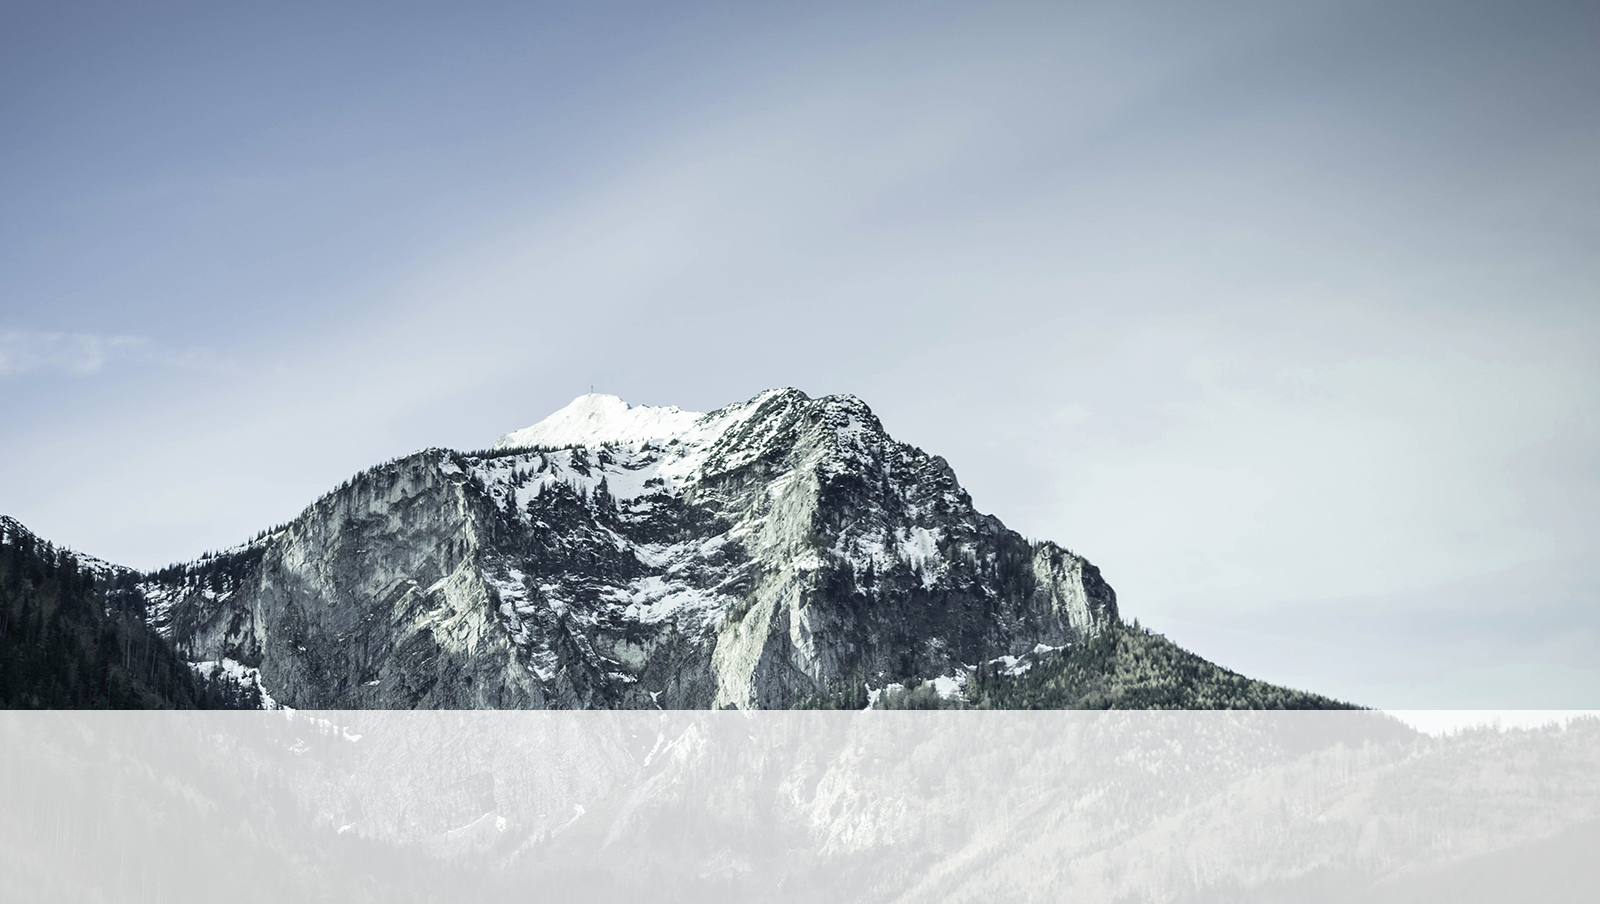
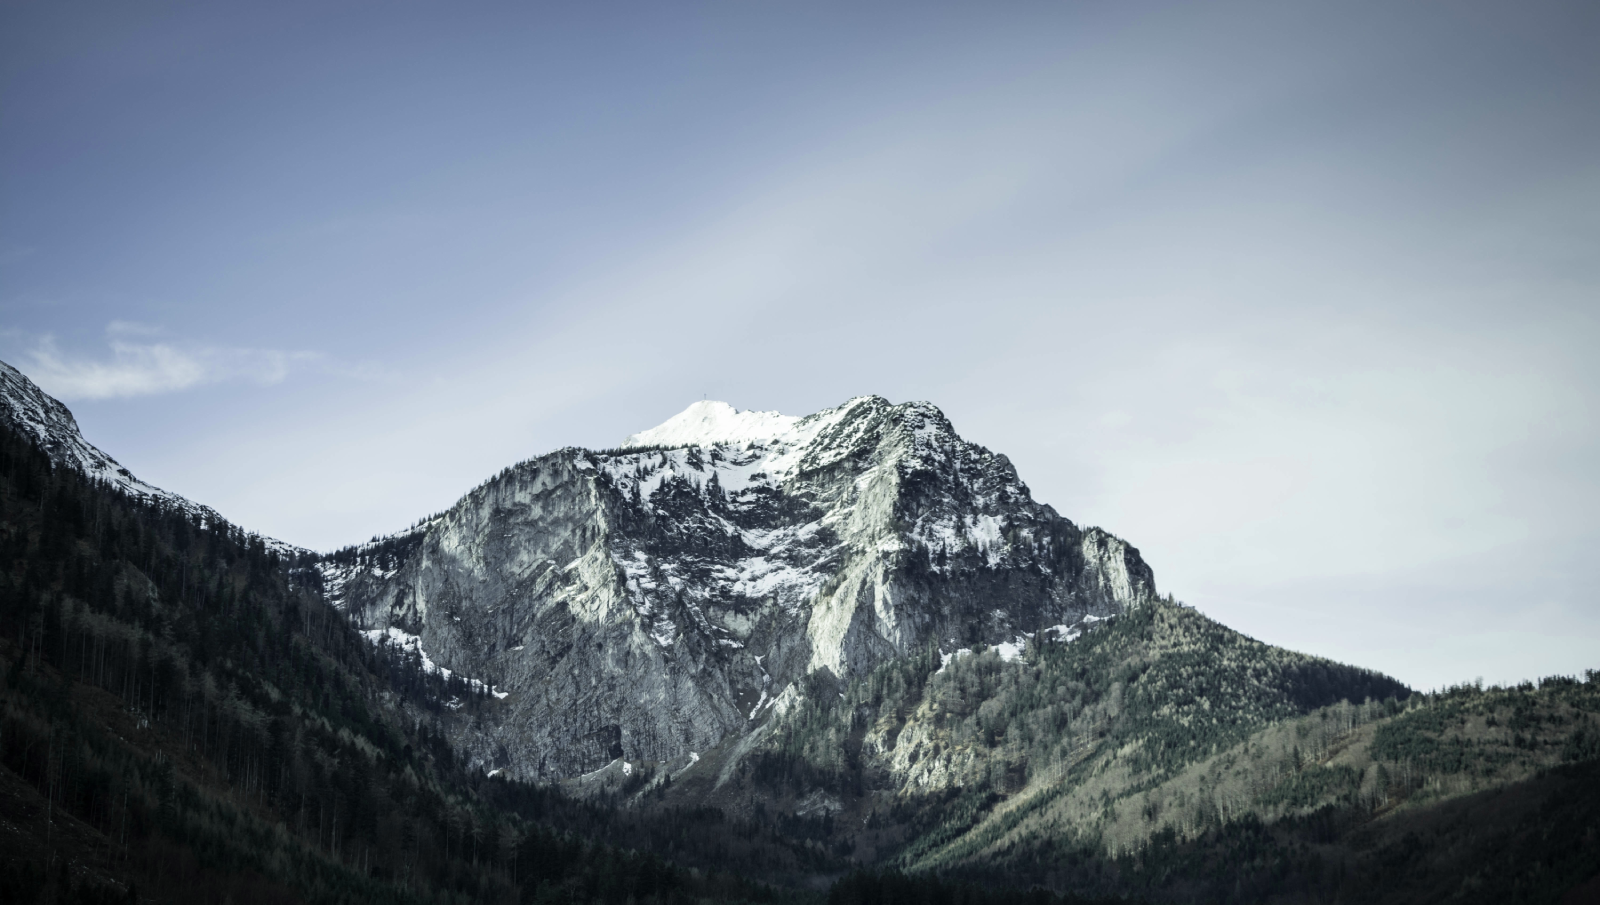
Changed position of h2 in history section; changed background image in history section

diff --git a/index.html b/index.html
@@ -6,6 +6,12 @@
     <link rel="preconnect" href="https://fonts.gstatic.com" />
     <link rel="preconnect" href="https://fonts.gstatic.com" />
     <link
+      rel="stylesheet"
+      href="https://stackpath.bootstrapcdn.com/bootstrap/4.3.1/css/bootstrap.min.css"
+      integrity="sha384-ggOyR0iXCbMQv3Xipma34MD+dH/1fQ784/j6cY/iJTQUOhcWr7x9JvoRxT2MZw1T"
+      crossorigin="anonymous"
+    />
+    <link
       href="https://fonts.googleapis.com/css2?family=Lato:ital,wght@0,400;1,700&family=Oswald:wght@700&display=swap"
       rel="stylesheet"
     />
@@ -13,65 +19,84 @@
     <title>Los Angeles Mountains</title>
   </head>
   <body>
-    <header>
-      <nav>
-        <img id="logo1" src="images/img2.png" alt="Logo" />
-        <ul class="nav-menu first">
-          <li id="history"><a href="#01">01. HISTORY</a></li>
-          <li id="team"><a href="#02">02. TEAM</a></li>
-        </ul>
-      </nav>
-    </header>
+    <div class="container-fluid">
+      <header>
+        <nav>
+          <img id="logo1" src="images/img2.png" alt="Logo" />
+          <ul class="nav-menu first">
+            <li id="history"><a href="#01">01. HISTORY</a></li>
+            <li id="team"><a href="#02">02. TEAM</a></li>
+          </ul>
+        </nav>
+      </header>
 
-    <div class="nav2">
-      <nav>
-        <img id="logo2" src="images/img8.png" alt="Logo with Name" />
-        <ul class="nav-menu second">
-          <li id="history"><a href="#01">01. HISTORY</a></li>
-          <li id="team"><a href="#02">02. TEAM</a></li>
-        </ul>
-      </nav>
-    </div>
-
-    <div class="history" id="01">
-      <h1>01.</h1>
-      <h2>HISTORY</h2>
-      <p>
-        Lorem ipsum dolor sit, amet consectetur adipisicing elit. Tempora natus
-        expedita atque hic facilis odio aperiam autem, aut voluptatem fugit
-        officiis obcaecati, libero delectus ipsum. Dolor consequuntur animi unde
-        placeat.
-      </p>
-    </div>
-
-    <div class="climb" id="02">
-      <h1>02.</h1>
-      <h2>CLIMB</h2>
-      <p>
-        Lorem ipsum, dolor sit amet consectetur adipisicing elit. Velit itaque
-        voluptate dolores id aliquam et est in eum quas ratione consequatur
-        eligendi accusamus omnis natus, nihil delectus vitae exercitationem.
-        Doloribus.
-      </p>
-    </div>
-
-    <div class="mountain"></div>
-
-    <div class="schedule">
-      <div class="container">
-        <h2>SCHEDULE</h2>
-        <ul>
-          <li></li>
-          <li></li>
-          <li></li>
-          <li></li>
-        </ul>
+      <div class="nav2">
+        <nav>
+          <img id="logo2" src="images/img8.png" alt="Logo with Name" />
+          <ul class="nav-menu second">
+            <li id="history"><a href="#01">01. HISTORY</a></li>
+            <li id="team"><a href="#02">02. TEAM</a></li>
+          </ul>
+        </nav>
       </div>
+
+      <div class="history" id="01">
+        <h1>01.</h1>
+        <h2>HISTORY</h2>
+        <p>
+          Lorem ipsum dolor sit, amet consectetur adipisicing elit. Tempora
+          natus expedita atque hic facilis odio aperiam autem, aut voluptatem
+          fugit officiis obcaecati, libero delectus ipsum. Dolor consequuntur
+          animi unde placeat.
+        </p>
+      </div>
+      <div class="carousel"></div>
+
+      <div class="climb" id="02">
+        <h1>02.</h1>
+        <h2>CLIMB</h2>
+        <p>
+          Lorem ipsum, dolor sit amet consectetur adipisicing elit. Velit itaque
+          voluptate dolores id aliquam et est in eum quas ratione consequatur
+          eligendi accusamus omnis natus, nihil delectus vitae exercitationem.
+          Doloribus.
+        </p>
+      </div>
+
+      <div class="mountain"></div>
+
+      <div class="schedule">
+        <div class="calendar">
+          <h2>SCHEDULE</h2>
+          <ul>
+            <li></li>
+            <li></li>
+            <li></li>
+            <li></li>
+          </ul>
+        </div>
+      </div>
+
+      <footer class="footer">
+        <img id="logo2" src="images/img9.png" alt="Logo with Name" />
+        <p>COPYRIGHT 2016. ALL RIGHTS RESERVED.</p>
+      </footer>
     </div>
 
-    <footer class="footer">
-      <img id="logo2" src="images/img8.png" alt="Logo with Name" />
-      <p>COPYRIGHT 2016. ALL RIGHTS RESERVED.</p>
-    </footer>
+    <script
+      src="https://code.jquery.com/jquery-3.3.1.slim.min.js"
+      integrity="sha384-q8i/X+965DzO0rT7abK41JStQIAqVgRVzpbzo5smXKp4YfRvH+8abtTE1Pi6jizo"
+      crossorigin="anonymous"
+    ></script>
+    <script
+      src="https://cdnjs.cloudflare.com/ajax/libs/popper.js/1.14.7/umd/popper.min.js"
+      integrity="sha384-UO2eT0CpHqdSJQ6hJty5KVphtPhzWj9WO1clHTMGa3JDZwrnQq4sF86dIHNDz0W1"
+      crossorigin="anonymous"
+    ></script>
+    <script
+      src="https://stackpath.bootstrapcdn.com/bootstrap/4.3.1/js/bootstrap.min.js"
+      integrity="sha384-JjSmVgyd0p3pXB1rRibZUAYoIIy6OrQ6VrjIEaFf/nJGzIxFDsf4x0xIM+B07jRM"
+      crossorigin="anonymous"
+    ></script>
   </body>
 </html>

diff --git a/style.css b/style.css
@@ -6,8 +6,8 @@
 
 header {
   background-image: url("images/img1.png");
+  background-size: cover;
   height: 825px;
-  width: 1600px;
   color: #fff;
 }
 
@@ -39,7 +39,7 @@ nav {
 }
 
 .nav2 {
-  width: 1600px;
+  background-size: cover;
   height: 75px;
   color: #414f6b;
 }
@@ -59,8 +59,8 @@ nav {
 
 .history {
   background-image: url("images/img3.png");
-  height: 900px;
-  width: 1600px;
+  background-size: cover;
+  height: 905px;
   display: flex;
 }
 
@@ -77,8 +77,9 @@ nav {
   font-family: "Oswald", sans-serif;
   color: #414f6b;
   font-size: 32px;
-  padding-top: 125px;
-  padding-left: 5px;
+  position: relative;
+  top: 155px;
+  left: -28px;
 }
 
 .history p {
@@ -87,9 +88,14 @@ nav {
   padding-top: 240px;
 }
 
+/* .carousel {
+  
+  height: 195px;
+} */
+
 .climb {
+  background-size: cover;
   height: 185px;
-  width: 1600px;
   display: flex;
 }
 
@@ -116,25 +122,25 @@ nav {
 
 .mountain {
   background-color: #414f6b;
+  background-size: cover;
   height: 40px;
-  width: 1600px;
 }
 
 .schedule {
   background-image: url("images/img5.png");
+  background-size: cover;
   height: 545px;
-  width: 1600px;
   display: flex;
 }
 
-.container {
+.calendar {
   background-color: #fff;
   width: 350px;
   height: 230px;
   opacity: 0.5;
 }
 
-.container h2 {
+.calendar h2 {
   font-family: "Oswald", sans-serif;
   color: #414f6b;
   font-size: 32px;
@@ -142,14 +148,10 @@ nav {
 
 .footer {
   background-color: #414f6b;
+  background-size: cover;
   height: 70px;
-  width: 1600px;
   display: flex;
   justify-content: space-between;
-}
-
-.footer img {
-  opacity: 0.1;
 }
 
 .footer p {
